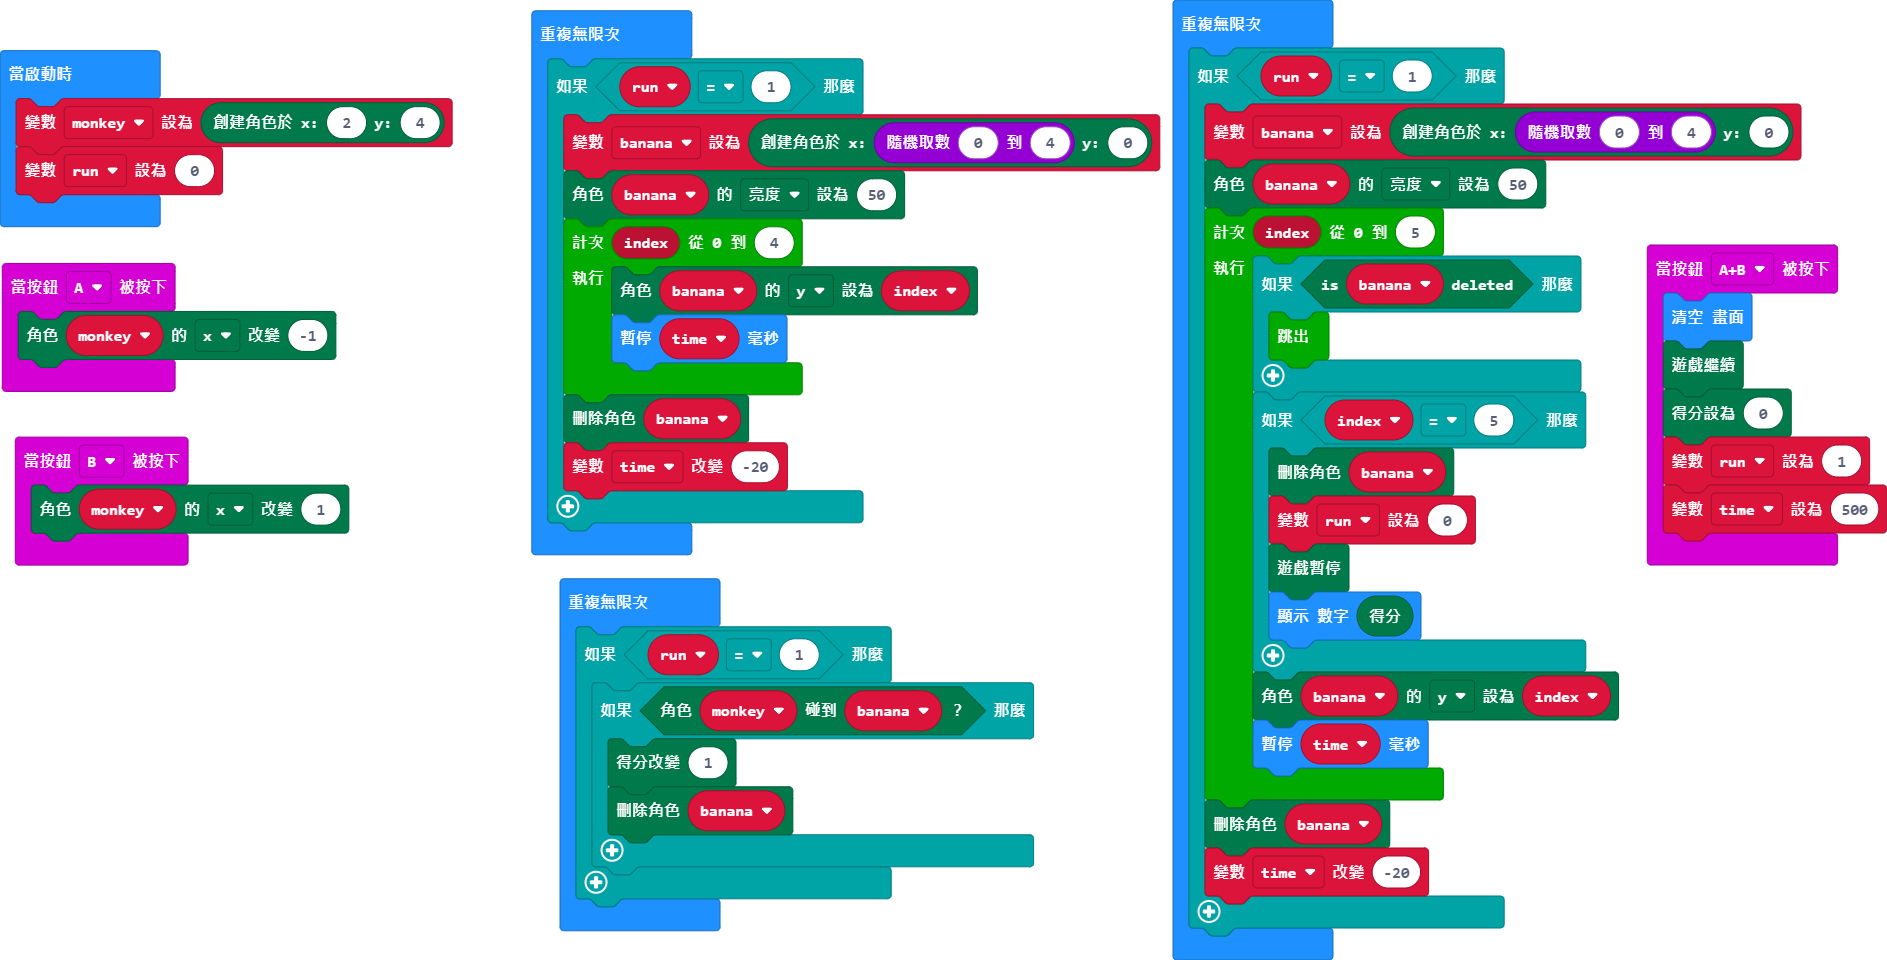
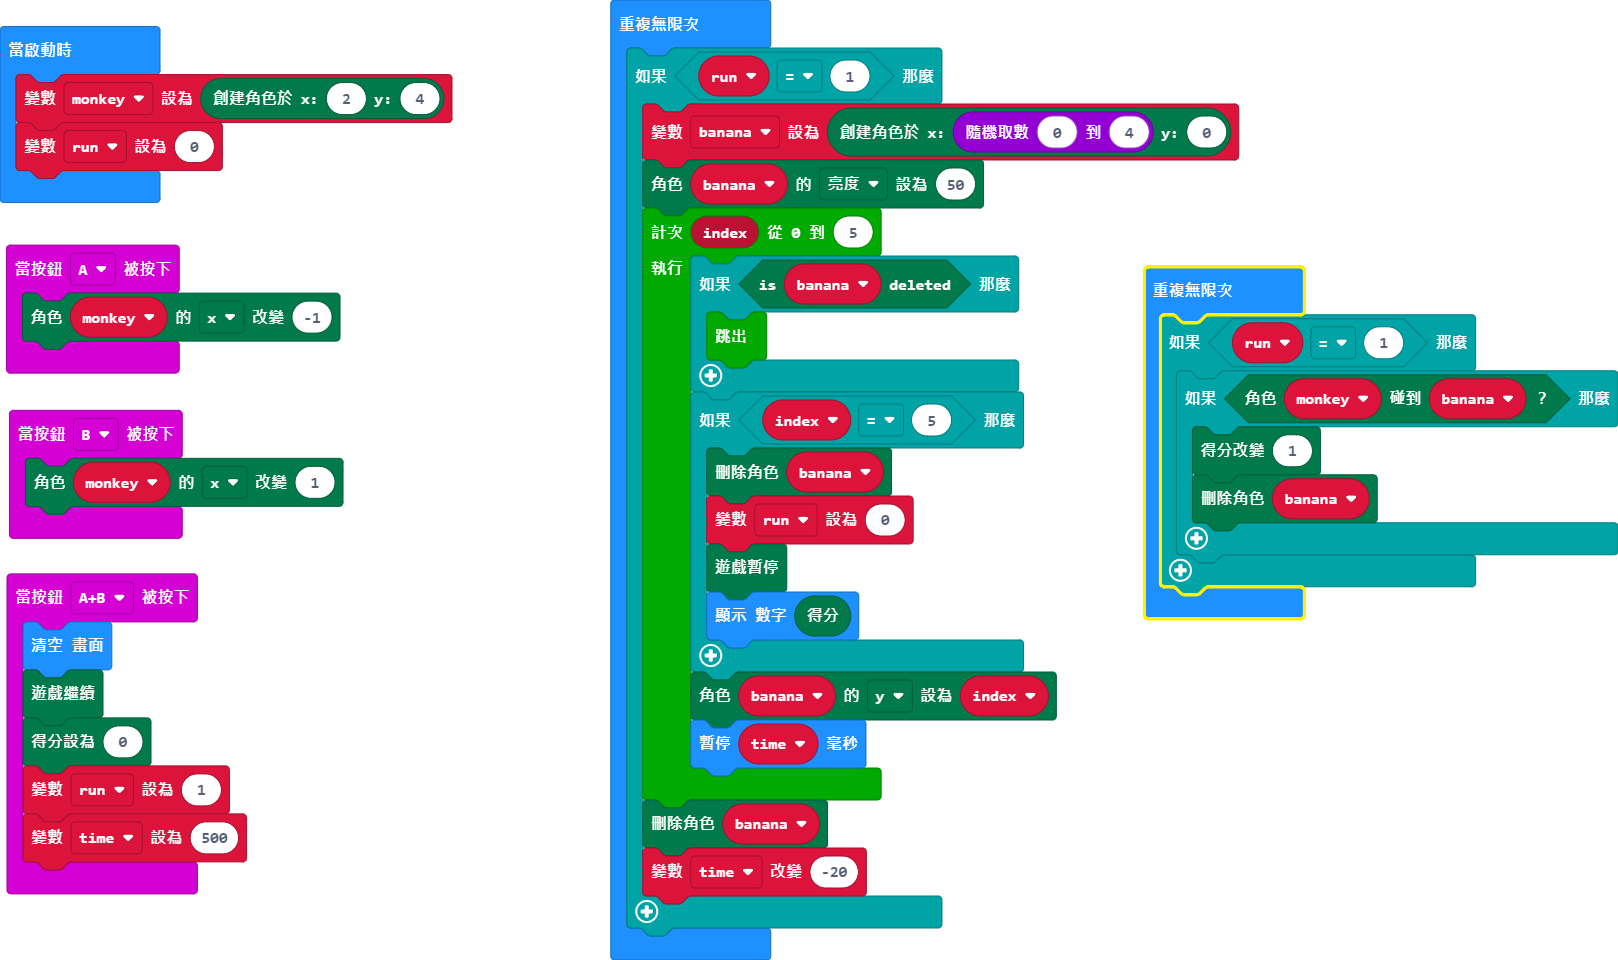
更新 main.blocks, main.ts

diff --git a/main.ts b/main.ts
@@ -21,18 +21,6 @@ basic.forever(function () {
     if (run == 1) {
         banana = game.createSprite(randint(0, 4), 0)
         banana.set(LedSpriteProperty.Brightness, 50)
-        for (let index = 0; index <= 4; index++) {
-            banana.set(LedSpriteProperty.Y, index)
-            basic.pause(time)
-        }
-        banana.delete()
-        time += -20
-    }
-})
-basic.forever(function () {
-    if (run == 1) {
-        banana = game.createSprite(randint(0, 4), 0)
-        banana.set(LedSpriteProperty.Brightness, 50)
         for (let index = 0; index <= 5; index++) {
             if (banana.isDeleted()) {
                 break;
